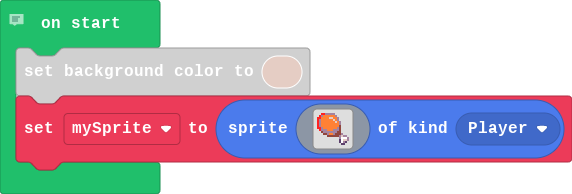
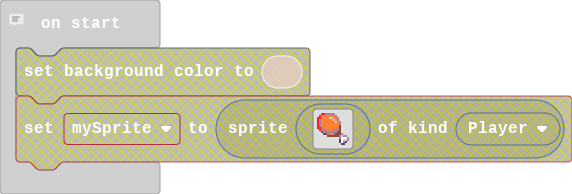
Update main.blocks, main.ts

diff --git a/main.ts b/main.ts
@@ -1,20 +1,1 @@
 // Don't forget to comment your code as you work!
-scene.setBackgroundColor(13)
-let mySprite = sprites.create(img`
-    . . 2 2 b b b b b . . . . . . . 
-    . 2 b 4 4 4 4 4 4 b . . . . . . 
-    2 2 4 4 4 4 d d 4 4 b . . . . . 
-    2 b 4 4 4 4 4 4 d 4 b . . . . . 
-    2 b 4 4 4 4 4 4 4 d 4 b . . . . 
-    2 b 4 4 4 4 4 4 4 4 4 b . . . . 
-    2 b 4 4 4 4 4 4 4 4 4 e . . . . 
-    2 2 b 4 4 4 4 4 4 4 b e . . . . 
-    . 2 b b b 4 4 4 b b b e . . . . 
-    . . e b b b b b b b e e . . . . 
-    . . . e e b 4 4 b e e e b . . . 
-    . . . . . e e e e e e b d b b . 
-    . . . . . . . . . . . b 1 1 1 b 
-    . . . . . . . . . . . c 1 d d b 
-    . . . . . . . . . . . c 1 b c . 
-    . . . . . . . . . . . . c c . . 
-    `, SpriteKind.Player)
